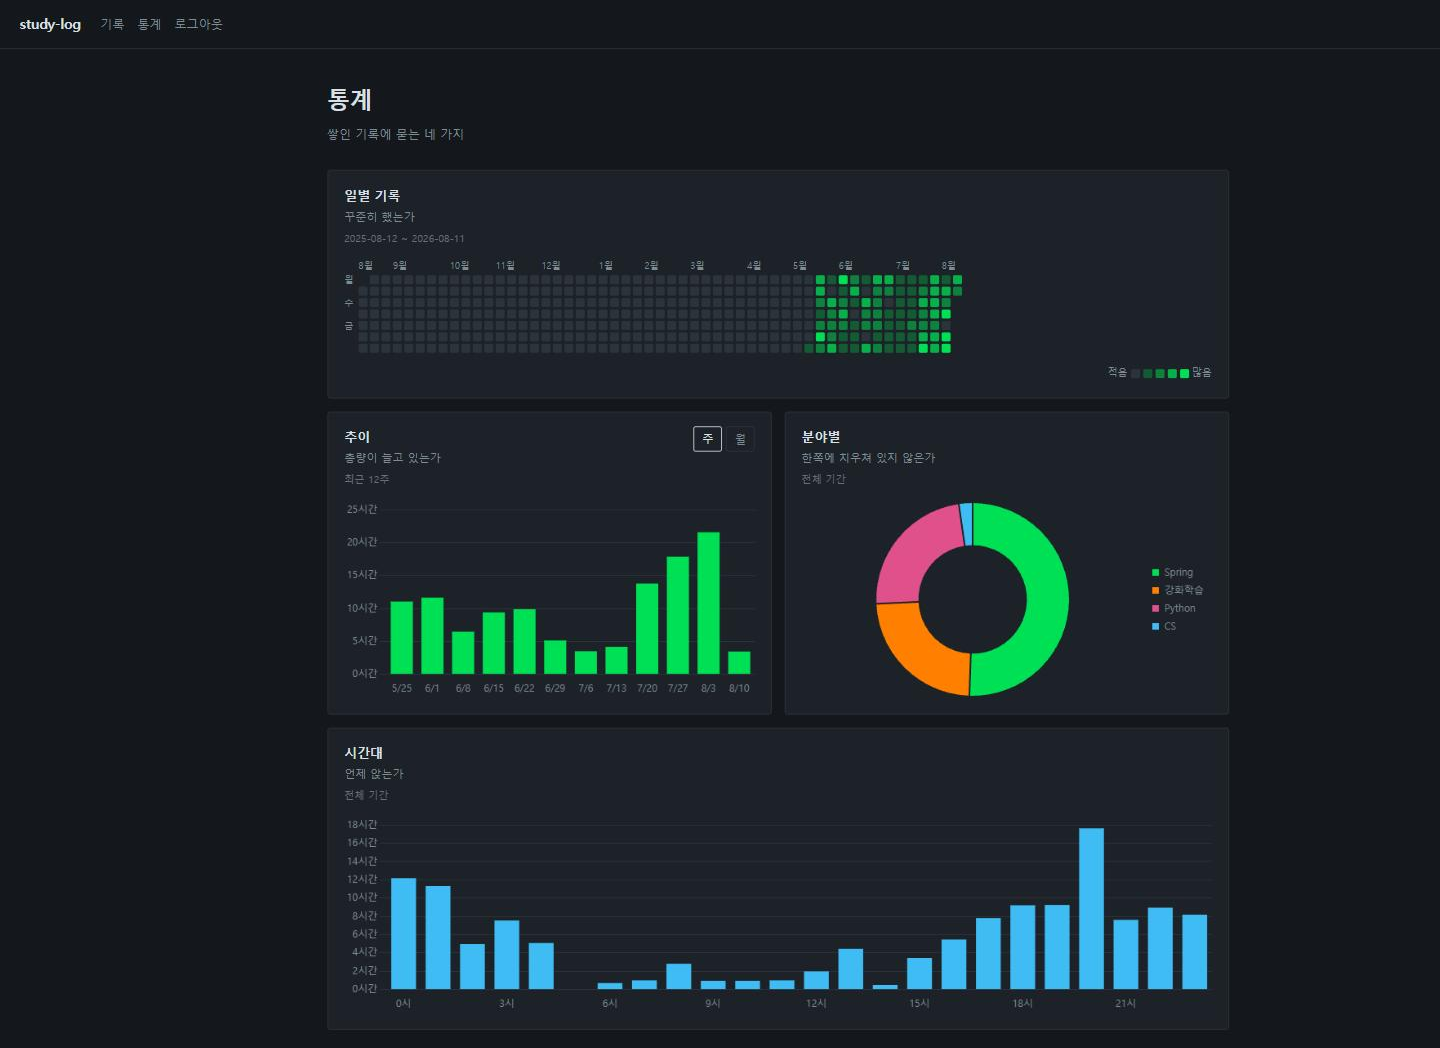
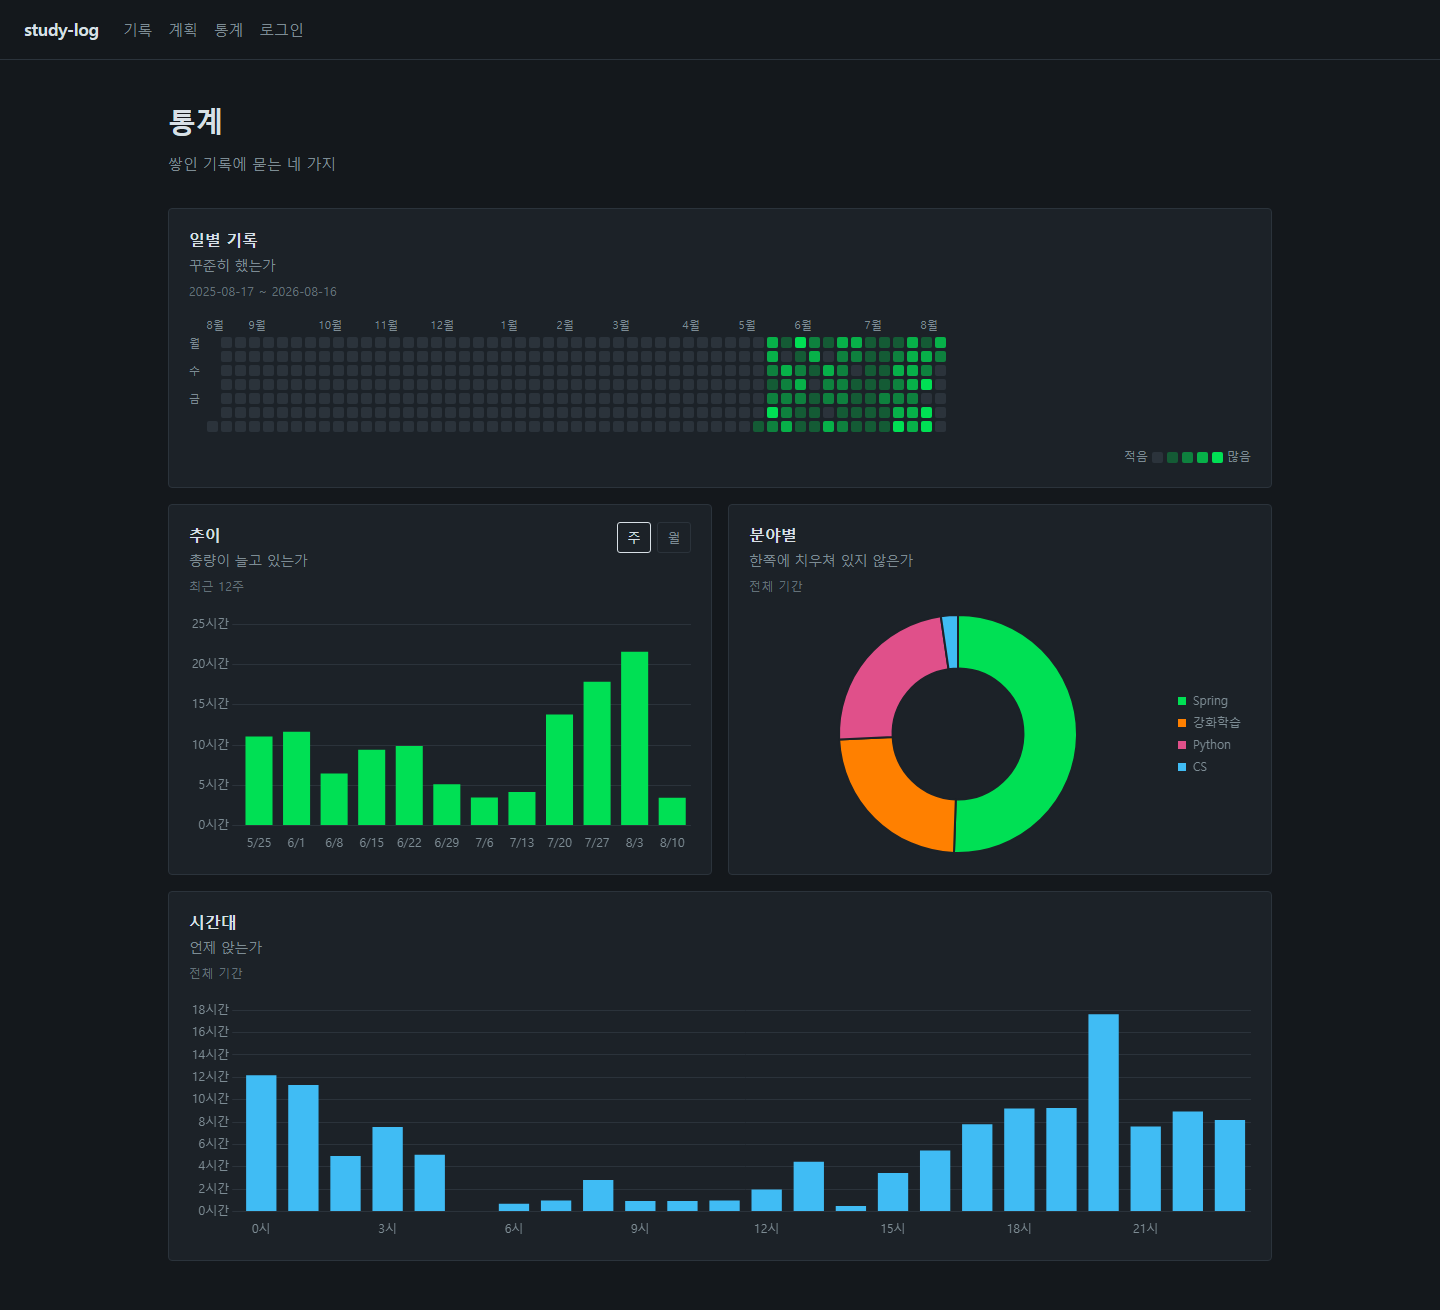
docs: 리뷰 지적 반영 · 스크린샷 재촬영
- 테스트 시간 3회 도커 워밍 상태로 재측정 24·24·23초 — 첫 회 37초는 컨테이너 기동이 아니라
  데몬 콜드 몫 (리포지토리 두 스위트 합계 4.56초)
- 감수한 것에 공부 계획 무연결 판단 한 줄 — 배포본 네비의 `계획` 이 README 어디에도 없던 자리
- demo.gif 홈 시작으로 재녹화 · stats.png 네비에 `계획` 반영 — 둘 다 홈 화면 이전 8/11 촬영본
- 템플릿 목록 `날짜 상자 프래그먼트` → `프래그먼트` — 자동완성 포함 둘 · 하나만 세는 것은 오기

diff --git a/README.md b/README.md
@@ -11,7 +11,7 @@
 좁히기 불가 · 파일 목록만으로 꾸준함 확인 불가. DB 이관으로 검색·통계 확보. 그 대가로 잃을 뻔한
 파일 형식은 **마크다운 재내보내기로 회수** — 옵시디언 vault 에서 그대로 열람.
 
-![검색에서 상세, 통계까지](docs/screenshots/demo.gif)
+![홈에서 검색, 상세, 통계까지](docs/screenshots/demo.gif)
 
 ![통계 — 일별 잔디 · 주간 추이 · 분야별 · 시간대](docs/screenshots/stats.png)
 
@@ -78,6 +78,9 @@ BCrypt 해시 아닌 평문 모두 부팅 실패.
   전건 500. 대가는 `./gradlew build` 의 도커 의존
 - 무료 티어 콜드스타트 166초 — 카드 없는 상시가동 경로 부재가 전제. 그중 앱 부팅은 44.7초 ·
   나머지 121초는 인스턴스 재배치 · DB 웨이크업 몫 — 부팅 단축만으로는 체감 불변
+- 공부 계획 체크리스트는 기록과 무연결 — 계획 대비 실제를 통계에 붙일 여지를 버린 자리. 대가는
+  "TODO 앱" 으로 읽힐 여지 · 방어는 배치뿐 — 첫 화면 주인공이 아닌 탭 하나 · 홈에서는 최근 기록
+  옆 칸 하나
 
 ## 구조
 
@@ -88,14 +91,14 @@ service/              CRUD · 분야/태그 정규화 · 통계 집계 · 마크
 service/export/       기록 → YAML 프론트매터 마크다운 ZIP
 service/importer/     마크다운 ZIP → 기록 (노트 하나가 트랜잭션 하나)
 web/                  컨트롤러 · 폼 DTO · 통계 JSON(/api/stats)
-resources/templates/  home · logs · stats · plans · io · 공통 layout · 날짜 상자 프래그먼트
+resources/templates/  home · logs · stats · plans · io · 공통 layout · 프래그먼트
 ```
 
 ## 검증
 
 | 무엇을 | 어떻게 |
 |---|---|
-| 단위·통합 테스트 256개 | `./gradlew test --rerun-tasks` 24초(3회 실측 37·24·24) · 전부 통과 · 리포지토리 24개는 PostgreSQL 컨테이너 위 — 편차의 몫은 그 컨테이너 기동 |
+| 단위·통합 테스트 256개 | `./gradlew test --rerun-tasks` 24초(3회 실측 24·24·23) · 전부 통과 · 리포지토리 24개는 PostgreSQL 컨테이너 위 — 도커 데몬이 뜬 상태 기준 · 데몬 콜드 기동에서는 첫 회 37초 |
 | 백업의 실제 복구 여부 | 내보낸 ZIP 을 비운 DB 에 되넣어 원본과 일치 · 같은 ZIP 재업로드는 전건 건너뛰기 (`MarkdownRoundTripTest`) |
 | PostgreSQL 위 이미지 기동 여부 | CI `image` 잡이 compose 로 띄워 앱 healthcheck 가 healthy 를 낼 때까지 기다린 뒤 `/` `/logs` 200 확인 — 1분 32초 (run 31811431653) |
 | 실제 데이터의 화면 반영 여부 | 커밋 이력에서 만든 마크다운 130개를 `/import` 업로드 — 추가 130 · 건너뜀 0 · 실패 0 |
